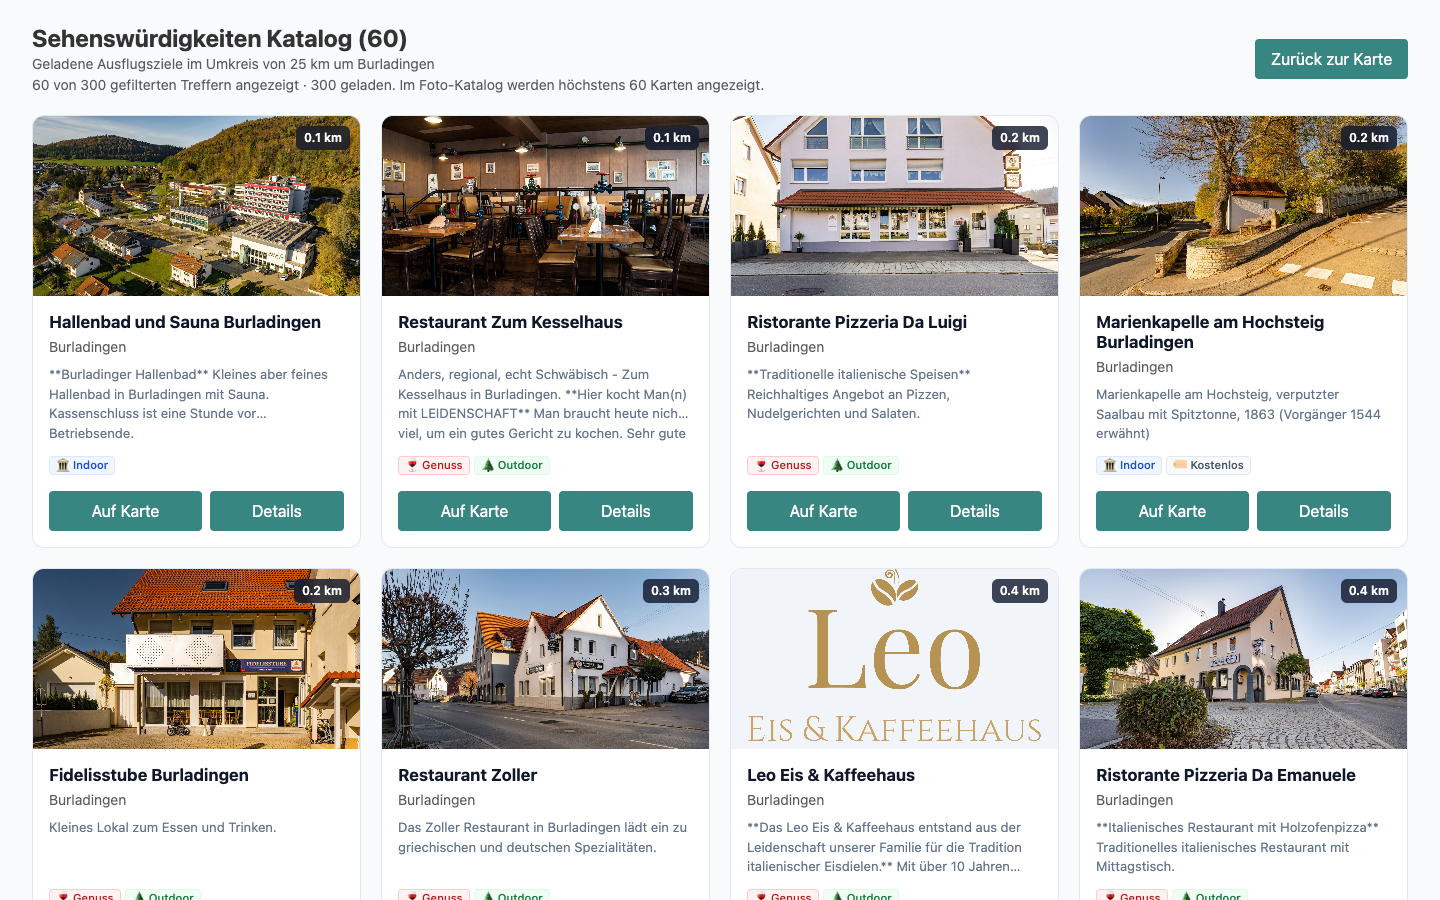
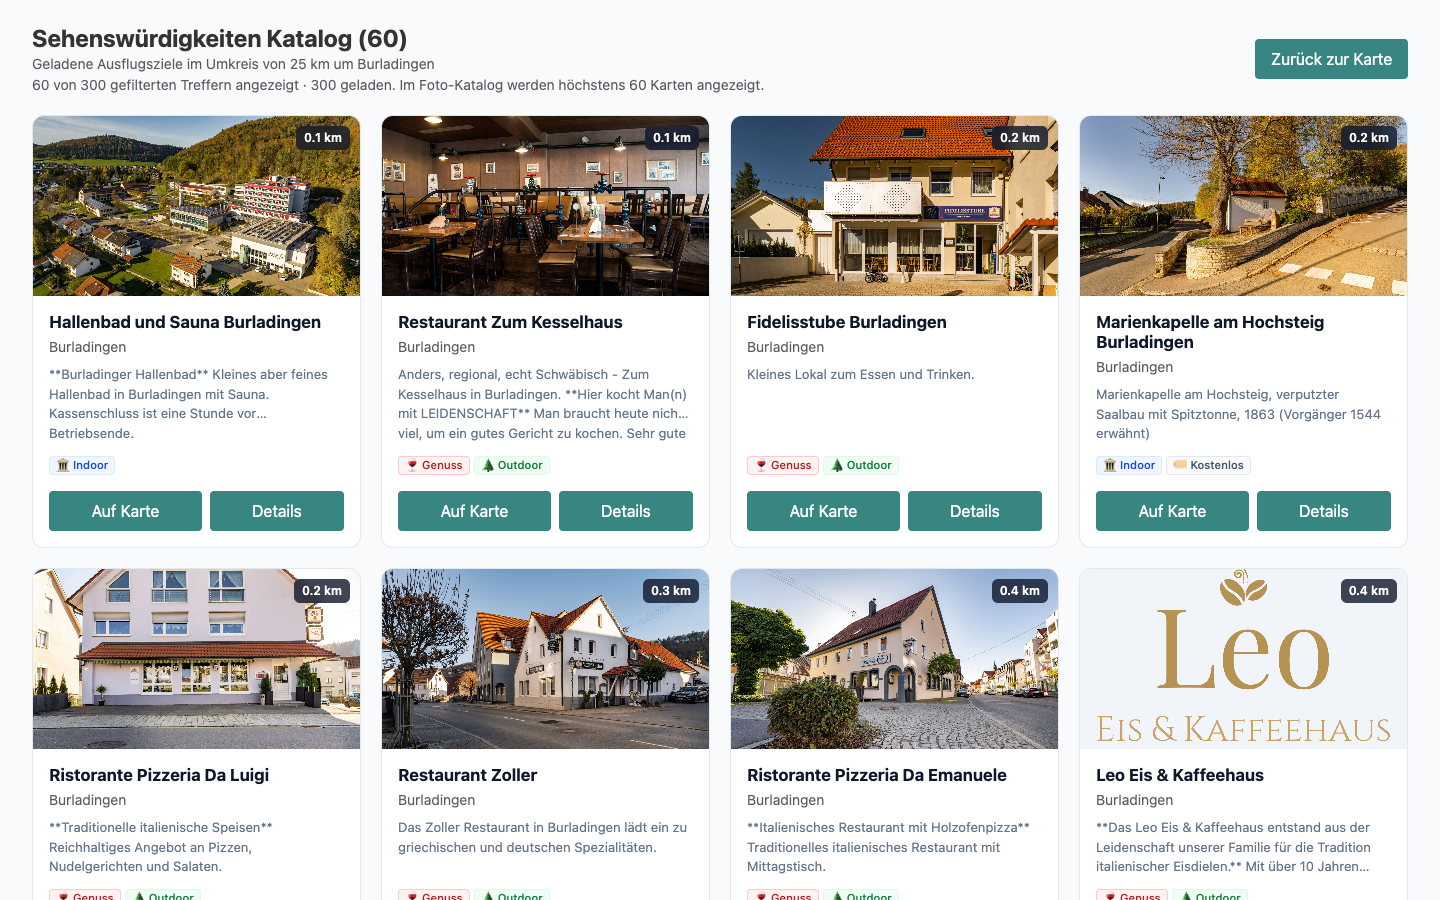
feat: DZT-Treffer nach Entfernung sortiert (1.8.10)
- Mit Koordinaten sortiert die SPARQL-Abfrage nach Entfernung (Ziele ohne Koordinaten
  am Ende); geladen werden die nächstgelegenen 300 der gelieferten Treffer statt einer
  zufälligen Auswahl. LIMIT 300, Paging und Antwortzeit unverändert.
- Hinweis, Methodik, lokale Config und README: die DZT-Umkreissuche kann zwischen
  Abrufen wechselnde Treffer liefern.
- Sitzungs-Cache-Schlüssel v3; Desktop- und Katalog-Screenshot erneuert.

diff --git a/app/app.js b/app/app.js
@@ -647,9 +647,17 @@ function buildDztSparqlQuery(lat, lng, radiusKm) {
   const typAuswahl = geoFilter
     ? `\n  { SELECT DISTINCT ?s WHERE {${geoFilter}\n  } }\n  ?s a ?targetType .\n  FILTER(?targetType IN (${zielTypen.join(", ")}))`
     : `\n  VALUES ?targetType {\n${zielTypen.map((t) => "    " + t).join("\n")}\n  }\n  ?s a ?targetType .`;
+  // 1.8.10: Mit Umkreis die nächstgelegenen Treffer zuerst (Abstandsquadrat mit Breitenkorrektur),
+  // Ziele ohne Koordinaten ans Ende. Die DZT-Umkreissuche liefert wechselnde Kandidatenmengen;
+  // „nächstgelegen“ gilt daher für die jeweils gelieferten Treffer.
+  const breitenFaktor = (Math.cos((numLat * Math.PI) / 180) ** 2).toFixed(4);
+  const sortierung = geoFilter
+    ? `\nORDER BY DESC(BOUND(?lat)) ASC((xsd:double(?lat) - ${numLat}) * (xsd:double(?lat) - ${numLat}) + (xsd:double(?lng) - ${numLng}) * (xsd:double(?lng) - ${numLng}) * ${breitenFaktor})`
+    : "";
 
   return `PREFIX inst: <http://www.ontotext.com/connectors/elasticsearch/instance#>
 PREFIX con: <http://www.ontotext.com/connectors/elasticsearch#>
+PREFIX xsd: <http://www.w3.org/2001/XMLSchema#>
 PREFIX schema: <https://schema.org/>
 
 SELECT ?s 
@@ -689,7 +697,7 @@ WHERE {${typAuswahl}
     ?imgObj schema:contentUrl ?imgUrl .
   }
 }
-GROUP BY ?s
+GROUP BY ?s${sortierung}
 LIMIT 300`;
 }
 
@@ -739,7 +747,7 @@ async function loadDztData(state) {
 
   // SessionStorage-Cache prüfen (beschleunigt Kaltstart & Reloads auf Mobile und Desktop drastisch)
   // F-114: Auch der Daten-Cache ist an die konfigurierte Quelle gebunden.
-  const cacheKey = `sw_dzt_cache_v2_${state.lat.toFixed(4)}_${state.lng.toFixed(4)}_${state.umkreis}_${encodeURIComponent(JSON.stringify(state.config.apiurls || []))}`;
+  const cacheKey = `sw_dzt_cache_v3_${state.lat.toFixed(4)}_${state.lng.toFixed(4)}_${state.umkreis}_${encodeURIComponent(JSON.stringify(state.config.apiurls || []))}`;
   try {
     const cachedEntry = sessionStorage.getItem(cacheKey);
     if (cachedEntry) {
@@ -1188,7 +1196,7 @@ function renderInitialLayout(state) {
         <!-- Ergebnisumfang: geladen vs. gefiltert, Grenze der Quellabfrage -->
         <div class="sw-result-scope-note">
           <p class="mb-0" id="${u}-result-scope" aria-live="polite"></p>
-          <p class="mb-0">Die DZT-Abfrage lädt höchstens 300 Datensätze. Welche das sind, bestimmt die Quelle – nicht zwingend die nächstgelegenen; die Auswahl kann zwischen Abrufen wechseln. Die Anzeige ist keine vollständige Erfassung aller Sehenswürdigkeiten im Umkreis.</p>
+          <p class="mb-0">Die DZT-Abfrage lädt höchstens 300 Datensätze: die nächstgelegenen unter den Treffern, die die DZT-Umkreissuche liefert. Diese Treffer können zwischen Abrufen wechseln; die Anzeige ist keine vollständige Erfassung aller Sehenswürdigkeiten im Umkreis.</p>
         </div>
 
         <!-- Cockpit Scroll-Liste -->

diff --git a/README.md b/README.md
@@ -26,7 +26,7 @@ Die Konfiguration wird vom ODAS geladen. Die App bietet folgende Kernfunktionen:
   - Regionale Werksverkäufe & Outlets (`schema:OutletStore`, Textiltradition)
   - Kulinarik & Genussorte (Brauereien und Weingüter, `schema:Brewery`, `schema:Winery`)
 - **Vollbild Foto-Katalog**: Umschaltbare Bildergalerie der gefilterten Sehenswürdigkeiten (höchstens 60 Karten) mit großformatigen Bildern, Entfernungsangaben und Direktabsprung auf die Karte.
-- **Transparenter Ergebnisumfang**: Cockpit und Katalog nennen, wie viele Ziele geladen, passend zum Filter und angezeigt sind. Die DZT-Abfrage lädt höchstens 300 Datensätze, der Foto-Katalog zeigt höchstens 60 Karten; die Anzeige ist keine vollständige Erfassung aller Sehenswürdigkeiten im Umkreis. Welche Datensätze geladen werden, bestimmt die Quelle – nicht zwingend die nächstgelegenen; die Auswahl kann zwischen Abrufen wechseln.
+- **Transparenter Ergebnisumfang**: Cockpit und Katalog nennen, wie viele Ziele geladen, passend zum Filter und angezeigt sind. Die DZT-Abfrage lädt höchstens 300 Datensätze, der Foto-Katalog zeigt höchstens 60 Karten; die Anzeige ist keine vollständige Erfassung aller Sehenswürdigkeiten im Umkreis. Geladen werden die nächstgelegenen unter den Treffern, die die DZT-Umkreissuche liefert; diese Treffer können zwischen Abrufen wechseln.
 - **Detailansicht (Modal) & Vollbild-Lightbox**:
   - Strukturierte Details mit Öffnungszeiten, Barrierefreiheit, Anfahrtslinks und Lizenzen.
   - Klickbare Vollbild-Bildergalerie mit Touch-Wischgesten (Swipe), sanfter Richtungsanimation und Tastaturnavigation für Mehrfachbilder.
@@ -56,7 +56,7 @@ Die App lädt schema.org- und ODTA-konforme Daten aus dem **DZT Knowledge Graph*
 - **Typ:** `schema:TouristAttraction`, `schema:Place`, `odta:PointOfInterest`, `schema:Museum`, `schema:Playground`, `schema:OutletStore`, `schema:Brewery`, `schema:Winery` u. a.
 - **Attribute:** `name`, `description`, `geo` (GeoCoordinates), `address` (PostalAddress), `image` (ImageObject-Array mit Lizenzen), `isAccessibleForFree`, `openingHoursSpecification`, `amenityFeature`.
 - **Datenzugriff:** SPARQL-Endpunkt `https://proxy.opendatagermany.io/api/ts/v1/kg/sparql`, im ODAS-Livebetrieb ausschließlich über den internen Store-Relay (`/dzt?path=...`). Der DZT-API-Key verbleibt sicher im Store.
-- **Umfang:** Die Abfrage lädt höchstens 300 Datensätze (`LIMIT 300`); es gibt kein weiteres Nachladen. Ein Bestand von 300 sagt nichts darüber, wie viele Ziele es im Umkreis insgesamt gibt.
+- **Umfang:** Die Abfrage lädt höchstens 300 Datensätze (`LIMIT 300`); es gibt kein weiteres Nachladen. Mit Koordinaten sortiert sie nach Entfernung (`ORDER BY`, Ziele ohne Koordinaten am Ende), lädt also die nächstgelegenen der gelieferten Treffer. Die DZT-Umkreissuche liefert allerdings nicht bei jedem Abruf dieselben Kandidaten (gemessen 2026-10-14). Ein Bestand von 300 sagt nichts darüber, wie viele Ziele es im Umkreis insgesamt gibt.
 - **Lokale Entwicklung:** Automatische Verwendung einer realistischen Fixture (`assets/demo-pois.json`).
 
 ---
@@ -152,7 +152,7 @@ Bei direkten Abrufen erhalten diese Anbieter insbesondere die **IP-Adresse** und
 | `tests/test_geocoding.js` | Unit-Tests für 3-Stufen-Geocoding (Config, Offline, Nominatim, Fallback) |
 | `tests/test_classification.js` | Unit-Tests für Klassifikation, Tags und Normalisierung |
 | `tests/test_svg_pins.js` | Unit-Tests für Vektor-SVG-Pin-Generierung |
-| `tests/sparql-query.test.cjs` | Aufbau der DZT-SPARQL-Abfrage (Umkreis-Unterabfrage, `LIMIT 300`) |
+| `tests/sparql-query.test.cjs` | Aufbau der DZT-SPARQL-Abfrage (Umkreis-Unterabfrage, Sortierung nach Entfernung, `LIMIT 300`) |
 | `tests/result-scope.test.cjs` | Ergebnisumfang: geladen, gefiltert, im Katalog angezeigt (höchstens 60) |
 | `tests/source-config.test.cjs` | Wirksame DZT-Quelle in Abruf und Fehleranzeige; Konsistenz von Paket, lokaler Config und README |
 | `tests/menu-motion.browser.cjs` | Browserprüfung der Menütransition (separat, Playwright) |

diff --git a/CHANGELOG.md b/CHANGELOG.md
@@ -4,6 +4,11 @@ Alle wichtigen Änderungen an dieser Open Data App werden in dieser Datei dokume
 
 Das Format basiert auf [Keep a Changelog](https://keepachangelog.com/de/1.0.0/) und diese App folgt [Semantic Versioning](https://semver.org/lang/de/).
 
+## 1.8.10 - 2026-10-14
+- FEAT: Mit Koordinaten sortiert die DZT-Abfrage nach Entfernung (Ziele ohne Koordinaten am Ende); geladen werden die nächstgelegenen 300 der gelieferten Treffer statt einer zufälligen Auswahl. Grenze, Paging und Antwortzeit unverändert (gemessen: Freiburg 25 km – die 300 liegen jetzt innerhalb von 2 km statt Median 17 km).
+- FIX: Hinweis, Methodik und README benennen, dass die DZT-Umkreissuche zwischen Abrufen wechselnde Treffer liefern kann.
+- CHANGE: Sitzungs-Cache-Schlüssel `v3`, damit zwischengespeicherte unsortierte Ergebnisse nicht weiterverwendet werden.
+
 ## 1.8.9 - 2026-10-14
 - FIX: Ergebnisumfang transparent: Cockpit nennt „Geladen“ und „Passend zum Filter“, der Foto-Katalog „angezeigt von gefiltert · geladen“ (höchstens 60 Karten); Hinweis, dass die DZT-Abfrage höchstens 300 Datensätze lädt, die Quelle die Auswahl bestimmt (nicht zwingend die nächstgelegenen, wechselnd zwischen Abrufen) und keine vollständige Erfassung vorliegt. Abfrage, Grenzen und Paging unverändert.
 - FIX: Leere Quelle („Keine Sehenswürdigkeiten geladen“) und leerer Filter („Keine Treffer“) werden in der Liste unterschieden; solange noch geladen wird, zeigen Hinweis, Liste und Katalog „Daten werden geladen …“ statt einer Leermeldung.
